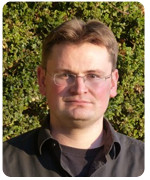
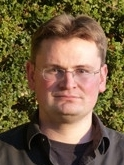
Layout fixes (#277)
* Einzeilige alternative Darstellung im Inhaltsverzeichnis

* URLs von fsk auf stura aktualisiert

* Figures besser ans layout angepasst

* Vorlesungen im TOC zusammengefasst

* Bilder von JJ zugeschnitten

diff --git a/hopo/ueberblick_gremien.tex b/hopo/ueberblick_gremien.tex
@@ -2,10 +2,7 @@
 \section{Überblick}
 \label{hopo}
 
-\begin{figure}[b]
-    \centering
-     \includegraphics[width=.7\linewidth]{bilder/duty_calls.png}
-\end{figure}
+
 
 Es ist zwar sehr einleuchtend, dass sich die Hochschulpolitik mit den Belangen der Hochschulteilnehmerinnen beschäftigt, jedoch sind die Grenzen der Hochschulpolitik nicht eindeutig. Denn wie so häufig in der Politik, hängt alles miteinander zusammen: Der lokale ÖPNV und das Semesterticket, der teure Wohnungsmarkt und die Studierendenwohnheime sowie befristete Arbeitsstellen und Tutorien. Indirekt -- aber manchmal auch ziemlich direkt –- sind Studentinnen von politischen Entscheidungen betroffen. Im Folgenden werden die verschiedenen Ebenen und deren Gremien vorgestellt, in denen Studentinnen bei Entscheidungsprozessen mehr oder weniger mitmischen können. Die Gremien lassen sich grob in studentische Selbstverwaltung einerseits sowie akademische Selbstverwaltung andererseits trennen.
 
@@ -15,8 +12,12 @@ Für jedes Fach gibt es eine Studienkommission, welche sich um die Themen Studiu
 
 Jede Änderung von Prüfungsordnungen, Modulhandbüchern und Studienplänen sowie das Lehrprogramm jedes Semesters wird in den Studienkommissionen besprochen und abgestimmt. Außerdem wird die Qualität der Lehre anhand von Ergebnissen der Lehrveranstaltungsevaluationen und Studiengangsbefragungen analysiert und anschließend versucht zu verbessern. Die Entscheidungen betreffen einen als Studentin direkt im Studienalltag. Die studentischen Vertreterinnen werden von der Fachschaft vorgeschlagen und dann vom jeweiligen Fakultätsrat bestätigt.
 
+\begin{figure}[b]
+    \centering
+     \includegraphics[width=.9\linewidth]{bilder/duty_calls.png}
+\end{figure}
+
 \subsection{Fakultätsrat}
-Jede Fakultät besitzt als zentrales Gremium einen Fakultätsrat, der ebenso wie die Studienkommission während der Vorlesungszeit in der Regel monatlich tagt. Anders als in den den Fakultätsräten untergeordneten Studienkommissionen besitzen die Professorinnen in den Fakultätsräten eine eindeutige Mehrheit gegenüber den Mittelbaulerinnen und studentischen Vertreterinnen. Letztere kann man einmal im Jahr per Wahl bestimmen, wobei die Fachschaft häufig die einzige Liste mit Kandidatinnen aufstellt.
 
 \begin{figure*}[b]
     \centering
@@ -43,6 +44,8 @@ Jede Fakultät besitzt als zentrales Gremium einen Fakultätsrat, der ebenso wie
     \end{subfigure}
 \end{figure*}
 
+Jede Fakultät besitzt als zentrales Gremium einen Fakultätsrat, der ebenso wie die Studienkommission während der Vorlesungszeit in der Regel monatlich tagt. Anders als in den den Fakultätsräten untergeordneten Studienkommissionen besitzen die Professorinnen in den Fakultätsräten eine eindeutige Mehrheit gegenüber den Mittelbaulerinnen und studentischen Vertreterinnen. Letztere kann man einmal im Jahr per Wahl bestimmen, wobei die Fachschaft häufig die einzige Liste mit Kandidatinnen aufstellt.
+
 Im Fakultätsrat werden alle Angelegenheiten der Fakultät besprochen, insbesondere Berufungen für neue Professorinnen sowie andere wegweisende Entscheidungen werden hier besprochen. Die Ergebnisse der Studienkommission müssen in der Regel im Fakultätsrat bestätigt werden, jedoch werden diese häufig einfach durchgewunken, da sich der Fakultätsrat mit deutlich mehr als nur Studium und Lehre beschäftigt. Im Fakultätsrat werden also auch schon viele Themen diskutiert, die Studentinnen nur sehr indirekt betreffen.
 
 Angeführt wird eine Fakultät durch eine Dekanin, sowie den Studiendekaninnen und Prodekaninnen als Fakultätsvorstand. Unsere Studiengänge gehören zu den Fakultäten für Physik und Astronomie sowie Mathematik und Informatik, wobei \dekanphysik in der ersteren und \dekanmathe in der letzteren Dekan ist. Die 12 Fakultäten der Universität Heidelberg sind weiter aufgegliedert in Institute und Seminare, welche wiederum in fachspezifischere Arbeitsgruppen unterteilt sind. 
@@ -54,8 +57,6 @@ Diese betreffen hauptsächlich professorale Angelegenheiten der Forschung und eh
 Der Rektor der Universität ist zurzeit Bernhard Eitel. Als Leiter des Rektorats stellt er mit diesem die Hochschulleitung dar und vertritt die Hochschule nach innen und außen, wie es so schön heißt. Die vier Prorektorinnen sind jeweils für bestimmte Bereiche zuständig, unter anderem gibt es den Bereich Studium und Lehre. 
 
 Die organisatorischen Aufgaben der Universität werden von der (Zentralen) Universitätsverwaltung (ZUV) übernommen, welche von der Kanzlerin Angela Kalous geleitet wird und in acht Dezernate gegliedert ist. Die ZUV sitzt größtenteils im Carolinum in der Seminarstraße 2 und ist für Studentinnen eine wichtige Anlaufstelle zum Beispiel für die Immatrikulation, die zentrale Studienberatung, das Deutschlandstipendium und Wahlen für Universitätsgremien.
-
-Ein interessantes Gremium, das jedoch kaum eine Studentin kennt, ist der Universitätsrat, welcher eine Art Aufsichtsrat für die Universität, insbesondere das Rektorat darstellt. Sechs der elf Mitglieder sind externe Personen aus der Wirtschaft, Politik und Gesellschaft, die anderen fünf interne Mitglieder, davon eine studentische Vertreterin. Alle werden vom Wissenschaftsministerium auf Vorschlag einer Findungskommission benannt.Der Universitätsrat hat das letzte Wort in Finanzangelegenheiten und somit wesentlichen Einfluss auf die künftige Entwicklung der Universität, jedoch keinen direkten Bezug zum studentischen Alltag.
 
 \begin{figure*}[b]
     \centering
@@ -81,6 +82,9 @@ Ein interessantes Gremium, das jedoch kaum eine Studentin kennt, ist der Univers
 	\includegraphics[height=3cm]{bilder/inequivalence_principle_6.png}
     \end{subfigure}
 \end{figure*}
+Ein interessantes Gremium, das jedoch kaum eine Studentin kennt, ist der Universitätsrat, welcher eine Art Aufsichtsrat für die Universität, insbesondere das Rektorat darstellt. Sechs der elf Mitglieder sind externe Personen aus der Wirtschaft, Politik und Gesellschaft, die anderen fünf interne Mitglieder, davon eine studentische Vertreterin. Alle werden vom Wissenschaftsministerium auf Vorschlag einer Findungskommission benannt.Der Universitätsrat hat das letzte Wort in Finanzangelegenheiten und somit wesentlichen Einfluss auf die künftige Entwicklung der Universität, jedoch keinen direkten Bezug zum studentischen Alltag.
+
+
 
 Das Studierendenwerk ist übrigens nicht Teil der Universität, sondern eine eigenständige Anstalt öffentlichen Rechts, die nur sehr stark mit der Universität zusammenarbeitet.
 

diff --git a/hopo/studiengebuehren.tex b/hopo/studiengebuehren.tex
@@ -1,5 +1,5 @@
 % !TEX ROOT = ../ersti.tex
-\section{Allgemeine Studiengebühren \\ade!}
+\section[Allgemeine Studiengebühren ade]{Allgemeine Studiengebühren \\ade!}
 Seit dem Sommersemester 2012 sind die allgemeinen Studiengebühren, die im Sommersemester 2007 in ganz BaWü in Höhe von \EUR{500} eingeführt wurden, wieder abgeschafft. Es erfolgte ein vollständiger finanzieller Ausgleich in Höhe von \EUR{280} aus Landesmitteln, genannt “Qualitätssicherungsmittel” (QSM), oder liebevoll: “QuaSiMi”. Es sind nur \EUR{280} statt \EUR{500}, weil durch Ausnahmeregelungen wie die legendäre “Geschwisterregelung” seit 2009 im Durchschnitt nur dieser Betrag pro eingeschriebener Person an allgemeinen Studiengebühren eingenommen wurde.
 
 Zum Wintersemester 2017/18 werden Studiengebühren in BaWü wieder eingeführt. Diesmal nicht für alle, sondern nur für Studierende, die aus dem Nicht-EU-Ausland (also zum Beispiel aus Indien, China, USA, Lateinamerika) kommen und für Studierende im Zweitstudium, die also bereits einen akademischen Abschluss besitzen. Die grüne Wissenschaftsministerin Theresia Bauer, die früher selber für die Abschaffung allgemeiner Studiengebühren geworben hat, verspricht sich von diesen neuen Gebühren, Löcher im Haushalt zu stopfen. Die internationalen Studierenden sollen \EUR{1500} pro Semester bezahlen, wovon nur 20\% direkt an die Hochschulen fließen, somit auch nur dieser Anteil für eine Verbesserung der Studiensituation für internationale Studierende eingesetzt werden kann. Für ein Zweitstudium sollen Studierende \EUR{650} pro Semester zahlen. Dies schadet Gruppen, die ohnehin schon benachteiligt und in den Entscheidungsgremien unterrepräsentiert sind. Außerdem haben internationale Studierende schon genügend Hürden, da schrecken weitere finanzielle Hürden noch mehr von einem Studium an der Uni Heidelberg ab. Doch gerade von der interkulturellen Diversität unserer internationalen Studierenden profitiert der Hochschulstandort Heidelberg maßgeblich. Auch für Studierende im Zweitstudium werden durch die Gebühren zusätzliche Hürden - neben der großen Überwindung eines Neustarts und der dadurch verlängerten Studienzeit - geschaffen, wobei gerade Zweit-Studierende mit ihrem interdisziplinären Wissen gerade gesucht sind. Momentan ist im Koalitionsvertrag zwischen den Grünen und der CDU festgeschrieben, dass keine allgemeine Studiengebühren eingeführt werden. Aber dies kann sich bei den nächsten Landtagswahen 2021 ändern und deshalb sollte das Thema Studiengebühren weiterhin kritisch im Blickfeld der Studierenden bleiben.
@@ -9,7 +9,7 @@ Die QuaSiMi sind nicht nur zusätzliche Landesmittel für die Hochschule, sonder
 Mittlerweile sind diese Mittel zum Großteil in die Grundfinanzierung der Universität geflossen. Nur ca. 11\% der bisherigen Mittel werden noch durch Vorschläge ausgegeben, welche jedoch alleinig von den Studierenden bestimmt werden. Das restliche Geld wird teilweise weiter in die Grundfinanzierung der Fakultäten gesteckt, jedoch nicht mehr in der Höhe wie die QuaSiMi bisher, vor allem in die Lehre, floss.
 
 \subsection{Gebührenfreiheit?}
-Weiterhin müsst ihr jedoch als Teil der \EUR{\beitragssumme}, die ihr jedes Semester an die Uni überweisen müsst, einen "Verwaltungskostenbeitrag" von \EUR{\verwaltungsbetrag} bezahlen. Dieser wird den Hochschulen auf ihren Etat angerechnet, sodass das Geld de facto als Ersparnis ans Land Baden-Württemberg geht. Weil das Land nach der nächsten Wahl die allgemeinen Studiengebühren als Mittel gegen die erste Anhebung des Hochschuletats seit 1996 wieder entdecken könnte, möchten wir das Thema Studiengebühren nicht einfach als Teil der hochschulpolitischen Geschichte abhaken, sondern in diesem Kapitel daran erinnern. Wir laden Euch darüber hinaus ein, Euch über die Hintergründe der Studiengebühren zu informieren, beispielsweise auf unserer Fachschaftshomepage\footnote{\url{https://mathphys.fsk.uni-heidelberg.de/w/hintergruende/historie-der-studiengebuehren}}.
+Weiterhin müsst ihr jedoch als Teil der \EUR{\beitragssumme}, die ihr jedes Semester an die Uni überweisen müsst, einen "Verwaltungskostenbeitrag" von \EUR{\verwaltungsbetrag} bezahlen. Dieser wird den Hochschulen auf ihren Etat angerechnet, sodass das Geld de facto als Ersparnis ans Land Baden-Württemberg geht. Weil das Land nach der nächsten Wahl die allgemeinen Studiengebühren als Mittel gegen die erste Anhebung des Hochschuletats seit 1996 wieder entdecken könnte, möchten wir das Thema Studiengebühren nicht einfach als Teil der hochschulpolitischen Geschichte abhaken, sondern in diesem Kapitel daran erinnern. Wir laden Euch darüber hinaus ein, Euch über die Hintergründe der Studiengebühren zu informieren, beispielsweise auf unserer Fachschaftshomepage\footnote{\url{https://mathphys.stura.uni-heidelberg.de/w/hintergruende/historie-der-studiengebuehren}}.
 
 \subsection{Ein paar Argumente gegen allgemeine \\Studiengebühren}
 Wie ihr sicher bemerkt habt, gehen wir davon aus, dass es gut sei, wenn es keine Studiengebühren gibt. Was veranlasst uns dazu, mal abgesehen von persönlicher Betroffenheit?

diff --git a/in-der-stadt/wohnung.tex b/in-der-stadt/wohnung.tex
@@ -1,9 +1,10 @@
 % !TEX ROOT = ../ersti.tex
+
 \section{Wohnen in Heidelberg}
 
 Wie in jeder Unistadt, so ist es auch in Heidelberg schwer, zu Anfang des Semesters ein Zimmer zu finden, das bezahlbar ist und möglichst zentral liegt. Im Durchschnitt muss man in Heidelberg mit Lebenshaltungskosten von ca. \lebenshaltungskosten (inklusive Miete) pro Monat rechnen.
 
-\begin{figure*}[b]
+\begin{figure*}[t]
     \centering
     \begin{subfigure}{.3\textwidth}
     \includegraphics[height=4.5cm]{bilder/travelling_salesman_problem_1.png}
@@ -25,20 +26,20 @@ Nun aber zur konkreten Zimmersuche: es gibt mehrere Möglichkeiten, ein Zimmer i
 
 \subsubsection{Wohnheime}
 
-\begin{figure*}[t]
-    \centering
-    \begin{subfigure}{.2\textwidth}
-    \includegraphics[height=4.5cm]{bilder/household_tips_1.png}
-    \end{subfigure}
-    \begin{subfigure}{.25\textwidth}
-    \includegraphics[height=4.5cm]{bilder/household_tips_2.png}
-    \end{subfigure}
-    \begin{subfigure}{.2\textwidth}
-    \includegraphics[height=4.5cm]{bilder/household_tips_3.png}
-    \end{subfigure}
-    \begin{subfigure}{.28\textwidth}
-    \includegraphics[height=4.5cm]{bilder/household_tips_4.png}
-    \end{subfigure}
-\end{figure*}
+%\begin{figure*}[t]
+%    \centering
+%    \begin{subfigure}{.2\textwidth}
+%    \includegraphics[height=4.5cm]{bilder/household_tips_1.png}
+%    \end{subfigure}
+%    \begin{subfigure}{.25\textwidth}
+%    \includegraphics[height=4.5cm]{bilder/household_tips_2.png}
+%    \end{subfigure}
+%    \begin{subfigure}{.2\textwidth}
+%    \includegraphics[height=4.5cm]{bilder/household_tips_3.png}
+%    \end{subfigure}
+%    \begin{subfigure}{.28\textwidth}
+%    \includegraphics[height=4.5cm]{bilder/household_tips_4.png}
+%    \end{subfigure}
+%\end{figure*}
 
 In und um Heidelberg gibt es ca. 50 Wohnheime des Studierendenwerks, im Wintersemester werden ca. ein Fünftel aller dieser Zimmer neu vermietet. Die Auswahl erfolgt nach sozialen Kriterien wie zum Beispiel Heimatferne, Verdienst der Eltern, Wohnverhältnisse usw. Die Wohnzeit ist auf sechs Semester begrenzt, aber es gibt viele Möglichkeiten, diese zu verlängern, zum Beispiel durch Sonderaufgaben im Wohnheim, Härtefälle etc. Die maximale Wohnzeit kann auf insgesamt zehn Semester ansteigen, was durchaus vorkommt. Je nach Wohnheim gibt es Einzelzimmer mit Stockwerksküche und -Bad, die ihr dann mit jeweils 15-20 Leuten teilt (was mittlerweile aber eher selten ist), Einzelzimmer in 2er, 3er oder 4er WGs oder sogar Einzelappartments. Die Zimmer sind in der Regel nicht sehr groß (11--16 \squaren\metre), aber ausreichend. Nachteile von Wohnheimen können die teilweise sehr unterschiedlichen Vorstellungen von Hygiene sein, ein hoher Lärmpegel und immer wieder neue Überraschungen. Allerdings bietet ein Wohnheim vor allem für Leute, die neu in der Stadt sind, den großen Vorteil sehr schnell viele Leute kennen zu lernen, außerdem muss man sich um Reparaturen nicht selbst kümmern. Es gibt keine konkreten Bewerbungsfristen. Die Bewerbung sollte allerdings bis 1. Juli für das Wintersemester und bis 1. Januar für das Sommersemester eingegangen sein, weil dann mit der Zimmereinteilung und dem Versand der Mietverträge begonnen wird. Später eingehende Bewerbungen haben weitaus geringere Chancen und Auswahlmöglichkeiten. Antragsformulare gibt es in den Infocentern des Studierendenwerks oder im Internet.\footnote{\url{http://www.studentenwerk.uni-heidelberg.de}} Dort gibt es auch eine vollständige Liste aller Wohnheime des Studierendenwerks. Auch private, kirchliche oder sonstige Träger bieten Zimmer in Wohnheimen an, für diese müsst ihr euch direkt beim Wohnheim bewerben, nicht beim Studierendenwerk. Eine Liste findet ihr aber beim Studierendenwerk.\footnote{\url{http://www.stw.uni-heidelberg.de/sites/default/files/download/pdf/wo-in-hd-andere-traeger-de.pdf}}

diff --git a/wie-geht-studium/vorlesungen_physik.tex b/wie-geht-studium/vorlesungen_physik.tex
@@ -1,11 +1,7 @@
 % !TEX ROOT = ../ersti.tex
-\section{Vorlesungen Physik}
+\section*{Vorlesungen Physik}
 
-\subsection{Experimentalphysik 1: \\Mechanik und Wärmelehre}
-\label{ex1}
-Die Experimentalphysik 1 (\gls{Ex}) ist eigentlich eine sehr angenehme Vorlesung, um ins erste Semester zu starten, zumindest sofern ihr in der Schule irgendwann mal Physik hattet. Echte Verständnishürden stellen sich gerade im Mechanikteil im Allgemeinen nicht. Im Großen und Ganzen stellt sie einen Schnelldurchlauf durch die Entwicklung der Mechanik dar, von den Anfängen (diese liegen, je nach Prof, zwischen den alten Griechen und Newtons Axiomen) bis zu etwas ausgefeilteren Sachen, die sich aber alle noch im Rahmen des Schulstoffs bewegen sollten. Was diese Vorlesung dennoch von der Schule unterscheidet ist die \emph{Art} der Präsentation, größtenteils frontaler Vortrag, gespickt mit vielen Experimenten (Manchmal durchaus eine Art „Knoff-Hoff-Show“) und sehr viel schneller und mathematischer als ihr das von eurer Lehrerin gewohnt seit. Trotzdem ist dies die Vorlesung mit dem wahrscheinlich größten Unterhaltungswert eurer ganzen Universitätskarriere.
-
-\begin{figure*}[b]
+\begin{figure*}[t]
     \centering
     \begin{subfigure}[b]{.18\textwidth}
     \includegraphics[width=\linewidth]{bilder/the_difference_1.png}	    
@@ -23,6 +19,12 @@ Die Experimentalphysik 1 (\gls{Ex}) ist eigentlich eine sehr angenehme Vorlesung
     \includegraphics[width=\linewidth]{bilder/the_difference_4B.png}
     \end{subfigure}
 \end{figure*}
+
+\subsection{Experimentalphysik 1: \\Mechanik und Wärmelehre}
+\label{ex1}
+Die Experimentalphysik 1 (\gls{Ex}) ist eigentlich eine sehr angenehme Vorlesung, um ins erste Semester zu starten, zumindest sofern ihr in der Schule irgendwann mal Physik hattet. Echte Verständnishürden stellen sich gerade im Mechanikteil im Allgemeinen nicht. Im Großen und Ganzen stellt sie einen Schnelldurchlauf durch die Entwicklung der Mechanik dar, von den Anfängen (diese liegen, je nach Prof, zwischen den alten Griechen und Newtons Axiomen) bis zu etwas ausgefeilteren Sachen, die sich aber alle noch im Rahmen des Schulstoffs bewegen sollten. Was diese Vorlesung dennoch von der Schule unterscheidet ist die \emph{Art} der Präsentation, größtenteils frontaler Vortrag, gespickt mit vielen Experimenten (Manchmal durchaus eine Art „Knoff-Hoff-Show“) und sehr viel schneller und mathematischer als ihr das von eurer Lehrerin gewohnt seit. Trotzdem ist dies die Vorlesung mit dem wahrscheinlich größten Unterhaltungswert eurer ganzen Universitätskarriere.
+
+
 
 \subsection{Theoretische Physik 1: \\Mechanik und Mathem. Methoden}
 \label{theo1}

diff --git a/mathphys/evaluation.tex b/mathphys/evaluation.tex
@@ -2,7 +2,14 @@
 \section{Lehrevaluation}
 \label{eval}
 
-\begin{figure}[b]
+
+
+\noindent Neben dem \hyperref[kummerkasten]{Kummerkasten} hast Du gegen Ende des Semesters mit der \emph{Evaluation} noch eine Möglichkeit, Deine Profs und Tutorinnen zu bewerten. Das läuft dabei so ab, dass jemand von der Fachschaft (in der Physik) oder von der ZUV (in der Info und Mathe) in die Vorlesung kommt, eine kleine Einleitung gibt und dann einen Bogen austeilt, den Du dann ausfüllst. In den Tutorien der Info und Mathe übernehmen die Tutorinnen die Evaluation. Das ganze dient zweierlei Zwecken: Zum Einen werden besonders schlechte (oder gute) Vorlesungen mit den Dozentinnen nachbesprochen um das Lehrniveau zu steigern bzw. zu halten. Zum Anderen können Dir die Ergebnisse auch helfen, die richtigen Vorlesungen oder Übungsgruppen zu wählen. Wenn die Dozentin ihr Einverständnis zur Veröffentlichung gegeben hat, dann findest Du die Ergebnisse der Physik der letzten Semester z.B. am Fachschaftsraum (im Infoständer neben den Zettelkästen im ersten Stock), sowie im \gls{KIP}, im Hörsaalgebäude der Physik (\Gls{INF} 308) und am Philosophenweg, jeweils an Infobrettern.
+
+\vfill
+\eject
+
+\begin{figure}[h]
 \centering
         \includegraphics{bilder/eval_1.png}\\
         \includegraphics{bilder/eval_2.png}\\
@@ -11,4 +18,4 @@
         \includegraphics{bilder/eval_5.png}\\
 \end{figure}
 
-\noindent Neben dem \hyperref[kummerkasten]{Kummerkasten} hast Du gegen Ende des Semesters mit der \emph{Evaluation} noch eine Möglichkeit, Deine Profs und Tutorinnen zu bewerten. Das läuft dabei so ab, dass jemand von der Fachschaft (in der Physik) oder von der ZUV (in der Info und Mathe) in die Vorlesung kommt, eine kleine Einleitung gibt und dann einen Bogen austeilt, den Du dann ausfüllst. In den Tutorien der Info und Mathe übernehmen die Tutorinnen die Evaluation. Das ganze dient zweierlei Zwecken: Zum Einen werden besonders schlechte (oder gute) Vorlesungen mit den Dozentinnen nachbesprochen um das Lehrniveau zu steigern bzw. zu halten. Zum Anderen können Dir die Ergebnisse auch helfen, die richtigen Vorlesungen oder Übungsgruppen zu wählen. Wenn die Dozentin ihr Einverständnis zur Veröffentlichung gegeben hat, dann findest Du die Ergebnisse der Physik der letzten Semester z.B. am Fachschaftsraum (im Infoständer neben den Zettelkästen im ersten Stock), sowie im \gls{KIP}, im Hörsaalgebäude der Physik (\Gls{INF} 308) und am Philosophenweg, jeweils an Infobrettern.
+\vfill

diff --git a/studiengaenge/bachelor_physik.tex b/studiengaenge/bachelor_physik.tex
@@ -25,7 +25,7 @@ Euer weiteres Studium sieht, wie oben kurz angedeutet, so aus, dass ihr immer ei
 
 \begin{figure}[b]
 	\centering
-	\includegraphics[width=.5\linewidth]{bilder/laws_of_physics.png}
+	\includegraphics[width=.75\linewidth]{bilder/laws_of_physics.png}
 \end{figure}
 
 \subsection{Wahlbereich, Wahlpflichtbereich und \\Übergreifende Kompetenzen}
@@ -46,12 +46,13 @@ Sonst ist noch zu erwähnen, dass ihr, um in Heidelberg in den Master zugelassen
 
 \subsection{Prüfungsordnung und Modulhandbuch}
 
-Immer dann, wenn sich euch Fragen zu eurem Studium stellen oder ihr euch einfach über den weiteren Studienverlauf informieren wollt, sind die ersten Anlaufstellen die Prüfungsordnung und das Modulhandbuch. In der Prüfungsordnung ist formal geregelt, wie der Studienablauf, die Prüfungen und die Anrechenbarkeit von Modulen aussehen. Das Modulhandbuch wiederum ist im Großen und Ganzen eine Auflistung der in der Physik (und benachbarten Gebieten) angebotenen Veranstaltungen. Zurzeit findet ihr beide Dokumente auf der Hauptseite des Bachelors Physik. Leider ist das Modulhandbuch oft nicht ganz aktuell, falls euch Verbesserungen auffallen, meldet euch einfach bei uns.\\
-
-Ansonsten könnt ihr auch gerne zu uns in die Fachschaft auf eine Tasse Kaffee oder Tee vorbeikommen. In vielen Fällen können wir euch auch weiterhelfen.
-
 \begin{figure*}[b]
     \centering{
     \includegraphics[width=\textwidth]{bilder/purity.png}
 }
 \end{figure*}
+
+Immer dann, wenn sich euch Fragen zu eurem Studium stellen oder ihr euch einfach über den weiteren Studienverlauf informieren wollt, sind die ersten Anlaufstellen die Prüfungsordnung und das Modulhandbuch. In der Prüfungsordnung ist formal geregelt, wie der Studienablauf, die Prüfungen und die Anrechenbarkeit von Modulen aussehen. Das Modulhandbuch wiederum ist im Großen und Ganzen eine Auflistung der in der Physik (und benachbarten Gebieten) angebotenen Veranstaltungen. Zurzeit findet ihr beide Dokumente auf der Hauptseite des Bachelors Physik. Leider ist das Modulhandbuch oft nicht ganz aktuell, falls euch Verbesserungen auffallen, meldet euch einfach bei uns.\\
+
+Ansonsten könnt ihr auch gerne zu uns in die Fachschaft auf eine Tasse Kaffee oder Tee vorbeikommen. In vielen Fällen können wir euch auch weiterhelfen.
+

diff --git a/an-der-uni/edv.tex b/an-der-uni/edv.tex
@@ -17,21 +17,21 @@ Damit ihr überhaupt Zugang zum URZ bekommt, benötigt ihr Nutzername und Passwo
 \subsection{E-Mail}
 Mit der Freischaltung erhaltet ihr automatisch eine E-Mail-Adresse die auf \emph{@stud.uni-heidelberg.de} endet und momentan mit 1000 MB Speicherplatz nicht so schlecht ausgestattet ist. Größter Vorteil ist ihre Werbefreiheit und sehr gute Verfügbarkeit. \textbf{Achtung:} Solltet ihr die Adresse trotz allem nicht verwenden wollen, ändert \emph{unbedingt} eure Stammdaten im LSF\footnote{\url{https://lsf.uni-heidelberg.de}} und lasst euch die E-Mail-Adresse weiterleiten. Viele wichtige E-Mails wie die Rückmelde"=Erinnerung, Nachrichten von euren Tutorinnen oder Rundmails der Vorlesungen gehen dort ein.
 
-\begin{figure*}[b]
-    \centering
-    \begin{subfigure}{.2\textwidth}
-	    \includegraphics[height=3cm]{bilder/new_car_1.png}
-    \end{subfigure}
-    \begin{subfigure}{.2\textwidth}
-        \includegraphics[height=3cm]{bilder/new_car_2.png}
-    \end{subfigure}
-    \begin{subfigure}{.2\textwidth}
-        \includegraphics[height=3cm]{bilder/new_car_3.png}
-    \end{subfigure}
-    \begin{subfigure}{.2\textwidth}
-        \includegraphics[height=3cm]{bilder/new_car_4.png}
-    \end{subfigure}
-\end{figure*}
+%\begin{figure*}[b]
+%    \centering
+%    \begin{subfigure}{.2\textwidth}
+%	    \includegraphics[height=3cm]{bilder/new_car_1.png}
+%    \end{subfigure}
+%    \begin{subfigure}{.2\textwidth}
+%        \includegraphics[height=3cm]{bilder/new_car_2.png}
+%    \end{subfigure}
+%    \begin{subfigure}{.2\textwidth}
+%        \includegraphics[height=3cm]{bilder/new_car_3.png}
+%    \end{subfigure}
+%    \begin{subfigure}{.2\textwidth}
+%        \includegraphics[height=3cm]{bilder/new_car_4.png}
+%    \end{subfigure}
+%\end{figure*}
 
 \subsection{Drucken}
 
@@ -73,7 +73,7 @@ Das LSF\footnote{\url{https://lsf.uni-heidelberg.de/}} ist das Informationssyste
 
 Für einige Funktionen braucht ihr eine TAN. Diese müsst ihr euch einmal als Liste ausdrucken. Das ist ein bisschen umständlich, sollte aber mit der Anleitung, die ihr bei eurer Einschreibung bekommen habt, kein Problem sein.
 
-\begin{figure}[h]
+\begin{figure}[b]
     \centering
     \includegraphics[width=.7\linewidth]{bilder/planning.png}
 \end{figure}

diff --git a/zu_aktualisieren/vorkursplan.alle.tex b/zu_aktualisieren/vorkursplan.alle.tex
@@ -1,9 +1,14 @@
 % !TEX ROOT = ../ersti.tex
 \section{Rahmenprogramm}
 \subsection{Wanderungen}
-An den Wochenenden (Sonntag 07.10. und Sonntag 14.10.) werden wir jeweils eine kleine Wanderung unternehmen. Die erste Tour führt auf den Heiligenberg, die zweite auf den Königstuhl -- die beiden Hausberge (Hügel) Heidelbergs. Am Anschluss an die erste Tour werden wir an der Thing-Stätte\footnote{alle Infos hierzu während der Wanderung erfragen} grillen, im Anschluss an die zweite Tour im Schlossgarten picknicken. Bringt euch für das Picknick alles Wichtige selber mit.
+An den Wochenenden (Sonntag 07.10. und Sonntag 14.10.) werden wir jeweils eine kleine Wanderung unternehmen. Die erste Tour führt auf den Heiligenberg, die zweite auf den Königstuhl -- die beiden Hausberge (Hügel) Heidelbergs. Am Anschluss an die erste Tour werden wir an der Thing-Stätte\footnote{alle Infos hierzu während der Wanderung erfragen} grillen, im Anschluss an die zweite Tour im Schlossgarten picknicken. Bringt euch für das Picknick alles Wichtige selber mit.\\
 
 \noindent\emph{Wir treffen uns jeweils um 11 Uhr am Bismarckplatz.}
+
+\vfill
+
+
+\eject
 
 \subsection{Spieleabende}
 Das Abendprogramm wird spontan entschieden, meist handelt es sich um Gesellschaftsspiele -- bringt auf jeden Fall eigene Spiele mit, was auch immer ihr unter Spielen versteht. 
@@ -13,7 +18,9 @@ Bisher sind Gesellschaftsspiele super angekommen (da lernt man sich kennen), Alt
 \subsection{Brunch}
 Am Tag der deutschen Einheit (3. Oktober) bereiten wir euch einen wunderschönen, leckeren Brunch im \gls{Mathematikon}, der das beste Frühstück wird, das ihr in euren ersten zwei Wochen bekommen werdet. Bringt bitte euer eigenes Geschirr/Besteck mit, damit wir Plastikquatsch sparen.
 
-\begin{figure}[b]
+\vspace{4cm}
+
+\begin{figure}[h]
 \centering
 \includegraphics[width=.7\linewidth]{bilder/su_doku.png}
 \end{figure}

diff --git a/probleme/career_service.tex b/probleme/career_service.tex
@@ -1,4 +1,4 @@
-\section{Zentrale Studienberatung und \\Career Service}
+\section[Zentrale Studienberatung und Career Service]{Zentrale Studienberatung und \\Career Service}
 Worüber ihr euch klar werden solltet, ist, was ihr euch vom Studium erwartet. Fragt euch also: Warum studiere ich? Welches Berufsziel schwebt mir vor? Warum gerade dieses Fach? Ihr müsst diese Entscheidungen für euch selbst treffen und Prioritäten setzen – der Stundenplan bietet keine Anleitung dazu, die eigenen Fähigkeiten und Erwartungen im Studium umzusetzen. Bei der Beantwortung dieser Fragen unterstützt euch die zentrale Studienberatung. Hier könnt ihr einen Termin zur Einzelberatung vereinbaren (natürlich kostenfrei und vertraulich) oder Workshops zu den Themen Zeitmanagement, Präsentieren, Prüfungsangst oder Aufschieberitis besuchen. Auch bei Studienzweifeln ist die Studienberatung eine passende Anlaufstelle. Außerdem könnt ihr euch beim Stipendieninfoabend, der regelmäßig im Juni stattfindet, über Stiftungen und verschiedene Möglichkeiten ein Stipendium zu erhalten informieren.
 Ihr fragt euch, welche beruflichen Möglichkeiten ihr nach dem Studium habt oder wie ihr am besten an einen Praktikumsplatz kommt? Dann ist eure Anlaufstelle der Career Service, der Beratungsgespräche und Kurse rund um die Bewerbung und den Übergang in die Arbeitswelt anbietet, aber auch viele Infoveranstaltungen abhält. 
 Alle Infos zur Zentralen Studienberatung und dem Career Service findet ihr hier: \url{https://www.uni-heidelberg.de/studium/studieneinstieg.html}

diff --git a/wie-geht-studium/lehrbuecher.tex b/wie-geht-studium/lehrbuecher.tex
@@ -11,7 +11,7 @@ Falls ihr vorhabt, ein Buch zu kaufen, dann lasst Euch Zeit dafür und leiht euc
 
 Für viele Vorlesungen haben die Dozierenden ein Skript erstellt, was häufig eine gute Hilfe bei der Nachbereitung des Stoffes ist. Einige dieser Skripte werden auch gedruckt und im Laufe des Semesters in den Vorlesungen ausgeteilt. Anschließend sind sie im Fachschaftsraum kostenlos erhältlich -- kommt einfach bei uns vorbei und fragt nach, ob das auch bei euren Vorlesungen der Fall ist.
 
-Weiterhin solltet ihr auf jeden Fall die Skriptensammlung\footnote{\url{http://mathphys.fsk.uni-heidelberg.de/w/hauptseite/skripte/}} der Fachschaft im Netz durchstöbern. Unter „Skriptensammlung (PDFs)“ findet ihr unsere Links zu Vorlesungsskripten (dort finden sich passende Skripte zu fast jeder Vorlesung).
+Weiterhin solltet ihr auf jeden Fall die Skriptensammlung\footnote{\url{http://mathphys.stura.uni-heidelberg.de/w/hauptseite/skripte/}} der Fachschaft im Netz durchstöbern. Unter „Skriptensammlung (PDFs)“ findet ihr unsere Links zu Vorlesungsskripten (dort finden sich passende Skripte zu fast jeder Vorlesung).
 
 \subsubsection{Analysis}
 \begin{description}

diff --git a/studiengaenge/bachelor_informatik.tex b/studiengaenge/bachelor_informatik.tex
@@ -1,7 +1,7 @@
 % !TEX ROOT = ../ersti.tex
 \section{Informatik 100\%}
 
-\begin{figure*}[b]
+\begin{figure*}[th]
     \begin{subfigure}{.23\textwidth}
 	    \includegraphics[height=5cm]{bilder/cant_sleep_1.png}
     \end{subfigure}
@@ -83,7 +83,7 @@ Grundsätzlich habt ihr pro Prüfung zwei Versuche (z.B. wenn ihr krank wart, od
 
 \emph{Klausuranmeldungen sind immer verbindlich}. Überlegt euch also gut, ob ihr euch anmeldet. Solltet ihr euch sicher sein, die Klausur nicht zu bestehen, empfiehlt es sich, sich nicht anzumelden und die Vorlesung im nächsten Jahr noch einmal zu hören. Das Schöne an eurem Studiengang ist, dass die Noten der Grundpflichtmodule (IPI, IPK, ITI, LA 1 und Ana 1 bzw. MafIn 1 und 2) nicht in eure Abschlussnote zählen. Das heißt, dass auch wenn die ersten Semester mit der ganzen Mathematik vielleicht etwas hart sind, eure Abschlussnote darunter nicht unbedingt zu leiden hat.
 
-\begin{figure}
+\begin{figure}[h]
 \centering
 \includegraphics[width=.5\linewidth]{bilder/haskell.png}
 \end{figure}

diff --git a/mathphys/fachschaft.tex b/mathphys/fachschaft.tex
@@ -21,7 +21,7 @@ Um unsere Fachschaftsarbeit effizienter zu gestalten, haben wir uns dazu entschl
 
 \end{figure}
 
-\section{Alles verändert sich, \\wenn ihr es verändert\dots}
+\section[Alles verändert sich, wenn ihr es verändert\dots]{Alles verändert sich, \\wenn ihr es verändert\dots}
 Wie bereits erwähnt, sehen wir unsere Aufgabe in der Studierendenvertretung. Dabei kommt es uns insbesondere darauf an, dass wir die von uns vertretenen Studiengänge verbessern. Darüber hinaus mischen wir uns manchmal auch in politische Fragestellungen an der Uni ein. Das alles geschieht auf vielerlei Weise.
 
 Wenn ihr dieses Heft in den Händen haltet, habt ihr sicher schon von unserer \emph{Erstieinführung} gehört oder daran teilgenommen. Sie soll den Schock der ersten Uniwoche abmildern und ist in der Regel der erste Berührungspunkt mit uns für Erstis an der Uni Heidelberg.
